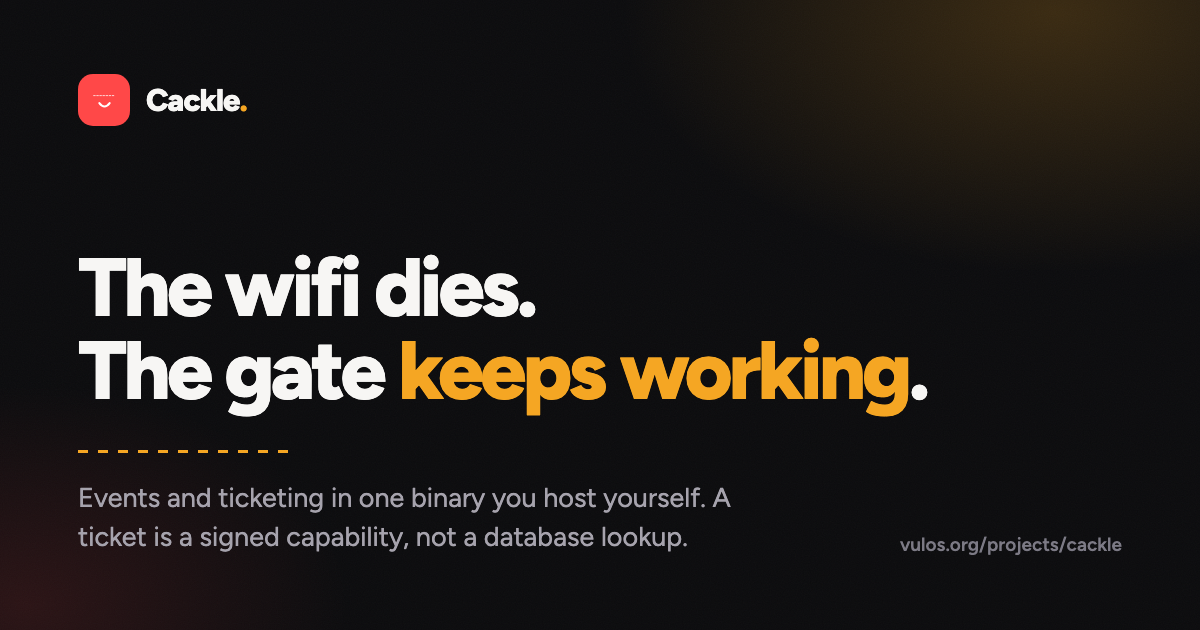
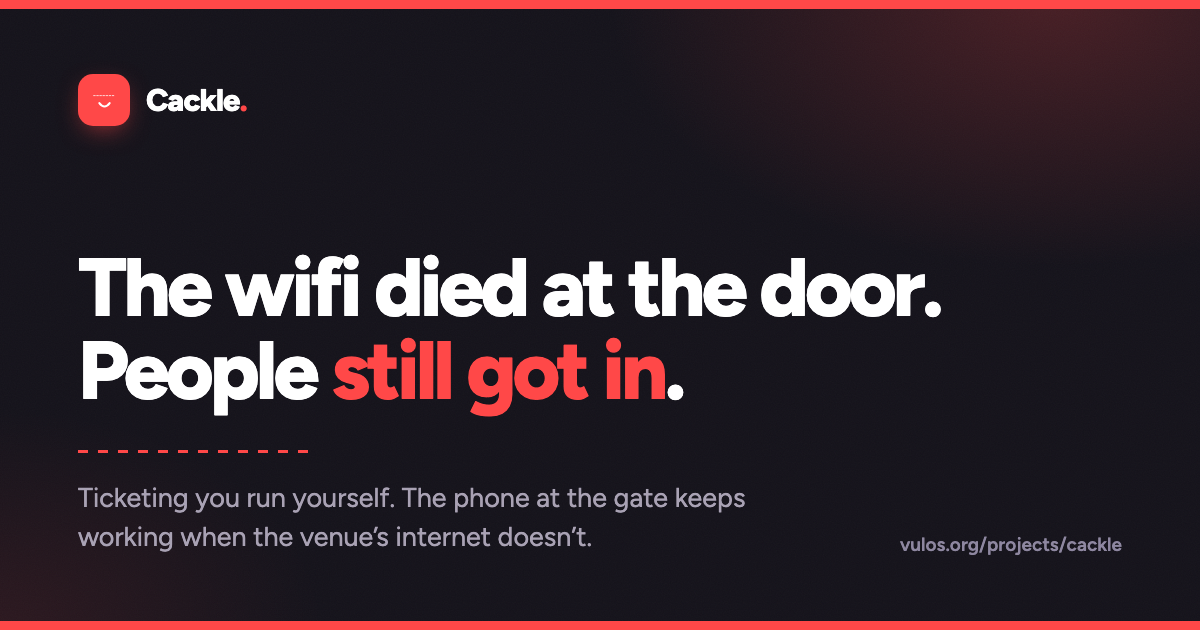
site: put the docs chrome and the og-card on the approved palette, and retire the old accent
The landing was rebuilt on RED + white/bone + INK; docs.html read the same
localStorage key but a different stylesheet, so following "Docs" out of the new
landing landed on the old colours. site/assets/style.css now carries the same
tokens name for name, including the light theme, and the tear-line motif gets a
red variant under the header rule.

scripts/make-og-card.mjs hardcoded the retired accent in four places. It now
declares its palette ONCE and reads RED out of brand/logo.svg's own tile fill
rather than repeating it as a literal — the same rule the mark's line and path
already followed, and for the same reason: a colour re-declared in a generator
is a colour that eventually disagrees with the mark it is drawing. The card was
regenerated and now carries the new headline and two torn red edges, so the
share preview is a stub too.

Retiring the accent is a safety fix rather than a taste one: it was the same
warm yellow the scanner uses for its WARN verdict. With it gone from the brand,
something yellow on a gate screen means exactly one thing.

  grep -ri "amber\|F5A623" site/   →  no hits (exit 1)

Verified the copies of the approved mark are byte-identical rather than
lookalikes:

  MD5 (brand/logo.svg)             = 504a1312fdd17cdc97b7a2b5124e25ad
  MD5 (site/assets/cackle-logo.svg)= 504a1312fdd17cdc97b7a2b5124e25ad
  MD5 (site/assets/favicon.svg)    = 504a1312fdd17cdc97b7a2b5124e25ad

npm run site:check: 40 checks passed.
[…]

diff --git a/site/assets/style.css b/site/assets/style.css
@@ -1,4 +1,4 @@
-/* ═══════════════════════════════════════════════════════════════════════════
+/* ════════════════════════════════════════════════════════════════════════════
    Cackle docs — the chrome for site/docs.html.
 
    This file used to dress BOTH pages. The landing is now self-contained (its
@@ -9,17 +9,21 @@
    markdown body.
 
    The tokens below are the LANDING's tokens, name for name and value for
-   value, including its light theme. That is the point of the rewrite: a
-   reader who sets the light theme on the landing and clicks "Docs" used to
-   land on a permanently-dark page in a different palette. Both pages now read
-   `cackle-site-theme` from localStorage before first paint and resolve to the
-   same surface.
+   value, including its light theme. That is the point: a reader who sets the
+   light theme on the landing and clicks "Docs" used to land on a permanently
+   dark page in a different palette. Both pages read `cackle-site-theme` from
+   localStorage before first paint and resolve to the same surface.
 
-   Measured, not guessed: #F5A623 on white is 1.99:1, so amber-coloured TEXT
-   (links, the active rail item) resolves to --amber-ink — a darkened amber in
-   light, a lifted one in dark — and the amber itself is only ever a fill or an
-   edge. See the note in site/index.html.
-   ═══════════════════════════════════════════════════════════════════════════ */
+   COLOUR — three, per brand/logo.svg and the canonical spec: RED #FF4848,
+   WHITE #FFFFFF, INK #14121A, with BONE #F7F3EE as the light-theme sunken
+   surface so white cards lift off it.
+
+   MEASURED, not guessed: #FF4848 on white is 3.02:1 — a superb FILL and an
+   unusable INK for text on a light ground. So red-coloured TEXT (links, the
+   active rail item) resolves to --red-ink: #C42323 (5.9:1) in light, and
+   #FF4848 itself in dark, where it measures 5.5:1 against the ink ground. The
+   red is otherwise only ever a fill, an edge, or the wordmark's dot.
+   ════════════════════════════════════════════════════════════════════════════ */
 
 @font-face{
   font-family:'Figtree';
@@ -33,12 +37,13 @@
 *,*::before,*::after{box-sizing:border-box}
 
 :root{
-  --bg:#0B0B0D; --bg-2:#111114; --panel:#16161A; --panel-2:#1C1C21; --sunken:#141417;
-  --line:#26262B; --line-2:#35353D;
-  --t1:#F7F6F4; --t2:#A6A3AD; --t3:#7C7A85;
-  --amber:#F5A623; --amber-ink:#F8BC55; --amber-fg:#1A1105;
-  --amber-wash:rgba(245,166,35,.11); --amber-edge:rgba(245,166,35,.30);
-  --red:#FF4848;
+  /* Dark theme = INK ground. */
+  --bg:#14121A; --bg-2:#1A1722; --panel:#1D1A25; --panel-2:#252131; --sunken:#100E15;
+  --line:#2A2633; --line-2:#3A3547;
+  --t1:#FFFFFF; --t2:#A9A2B4; --t3:#8E87A0;
+  --red:#FF4848; --red-ink:#FF4848;
+  --red-wash:rgba(255,72,72,.13); --red-edge:rgba(255,72,72,.34);
+  --red-glow:rgba(255,72,72,.55);
   --err:#FF7B7B; --err-wash:rgba(255,72,72,.09); --err-edge:rgba(255,72,72,.28);
   --r:14px; --r-sm:9px; --max:1200px;
   --quick:130ms; --ease:cubic-bezier(.2,0,.2,1);
@@ -47,11 +52,13 @@
   color-scheme:dark;
 }
 :root[data-theme=light]{
-  --bg:#FBFAF8; --bg-2:#FFFFFF; --panel:#FFFFFF; --panel-2:#F6F4F1; --sunken:#F2F0EC;
-  --line:#E6E2DC; --line-2:#D6D1C9;
-  --t1:#17161A; --t2:#57545C; --t3:#6E6B74;
-  --amber-ink:hsl(30 92% 32%);
-  --amber-wash:rgba(245,166,35,.16); --amber-edge:rgba(180,110,10,.42);
+  /* Light theme = WHITE ground, BONE for anything sunken. */
+  --bg:#FFFFFF; --bg-2:#F7F3EE; --panel:#FFFFFF; --panel-2:#F7F3EE; --sunken:#F2ECE4;
+  --line:#E5DED5; --line-2:#D6CCC0;
+  --t1:#14121A; --t2:#57515E; --t3:#6B6470;
+  --red-ink:#C42323;              /* 5.9:1 on white — red as TEXT resolves here */
+  --red-wash:#FFF0F0; --red-edge:rgba(196,35,35,.30);
+  --red-glow:rgba(255,72,72,.42);
   --err:#C81E1E; --err-wash:rgba(200,30,30,.07); --err-edge:rgba(200,30,30,.28);
   color-scheme:light;
 }
@@ -64,7 +71,7 @@ body{
 a{color:inherit;text-decoration:none}
 img{max-width:100%;display:block}
 button{font:inherit;color:inherit;background:none;border:0;cursor:pointer}
-:where(a,button,summary,[tabindex]):focus-visible{outline:2px solid var(--amber-ink);outline-offset:2px;border-radius:7px}
+:where(a,button,summary,[tabindex]):focus-visible{outline:2px solid var(--red);outline-offset:2px;border-radius:7px}
 @media (prefers-reduced-motion:reduce){
   html{scroll-behavior:auto}
   *,*::before,*::after{animation-duration:.001ms!important;transition-duration:.001ms!important}
@@ -75,16 +82,18 @@ button{font:inherit;color:inherit;background:none;border:0;cursor:pointer}
 
 .skip{
   position:absolute;left:14px;top:-70px;z-index:200;padding:11px 18px;border-radius:10px;
-  background:var(--amber);color:var(--amber-fg);font-weight:750;font-size:14px;
+  background:var(--red);color:#fff;font-weight:750;font-size:14px;
   transition:top var(--quick) var(--ease);
 }
 .skip:focus{top:14px}
 
-/* The page's one structural motif, shared with the landing. */
+/* The page's one structural motif, shared with the landing: a ticket's tear
+   line. Restyled in the new palette, not replaced. */
 .perf{
   height:2px;width:100%;border:0;margin:0;
   background-image:repeating-linear-gradient(90deg,var(--line-2) 0 7px,transparent 7px 14px);
 }
+.perf-red{background-image:repeating-linear-gradient(90deg,var(--red-edge) 0 7px,transparent 7px 14px)}
 
 /* ── Header ──────────────────────────────────────────────────────────────── */
 .site-header{
@@ -97,9 +106,10 @@ button{font:inherit;color:inherit;background:none;border:0;cursor:pointer}
 .brand{display:inline-flex;align-items:center;gap:11px;font-weight:800;letter-spacing:-.03em;font-size:19px;flex:none}
 .brand .tile{
   width:31px;height:31px;border-radius:9px;display:block;flex:none;
-  box-shadow:0 4px 14px -5px rgba(255,72,72,.7);
+  box-shadow:0 4px 14px -5px var(--red-glow);
 }
-.brand .dot{color:var(--amber)}
+/* Identity, not decoration: RED in BOTH themes, so it never follows the OS. */
+.brand .dot{color:var(--red)}
 .nav-links{display:flex;align-items:center;gap:3px;margin-left:auto}
 .nav-links a{
   padding:7px 11px;border-radius:8px;color:var(--t2);font-size:14px;font-weight:550;
@@ -138,15 +148,15 @@ button{font:inherit;color:inherit;background:none;border:0;cursor:pointer}
 }
 @media(max-width:860px){.docs-nav{position:static}}
 .docs-nav .label{
-  font-size:11px;text-transform:uppercase;letter-spacing:.09em;color:var(--t3);
-  padding:6px 10px;font-weight:750;
+  font-size:12px;text-transform:uppercase;letter-spacing:.09em;color:var(--t3);
+  padding:6px 10px;font-weight:800;
 }
 .docs-nav a{
   display:block;padding:8px 11px;border-radius:8px;color:var(--t2);font-size:14.5px;font-weight:550;
   transition:color var(--quick) var(--ease),background var(--quick) var(--ease);
 }
 .docs-nav a:hover{background:var(--panel-2);color:var(--t1)}
-.docs-nav a.active{background:var(--amber-wash);color:var(--amber-ink)}
+.docs-nav a.active{background:var(--red-wash);color:var(--red-ink)}
 .docs-main{min-width:0}
 .docs-title{font-size:12.5px;color:var(--t3);margin-bottom:8px;font-weight:600;letter-spacing:.02em}
 .docs-error{
@@ -164,7 +174,7 @@ button{font:inherit;color:inherit;background:none;border:0;cursor:pointer}
 .markdown h4{font-size:16.2px;margin:1.3em 0 .4em}
 .markdown p,.markdown li{color:var(--t2)}
 .markdown strong,.markdown b{color:var(--t1);font-weight:700}
-.markdown a{color:var(--amber-ink);font-weight:550}
+.markdown a{color:var(--red-ink);font-weight:600}
 .markdown a:hover{text-decoration:underline}
 .markdown code{
   font-family:var(--mono);font-size:.87em;background:var(--sunken);
@@ -183,8 +193,8 @@ button{font:inherit;color:inherit;background:none;border:0;cursor:pointer}
 }
 .markdown pre code{background:none;border:0;padding:0;font-size:13.4px;line-height:1.72;color:var(--t1);overflow-wrap:normal;word-break:normal}
 .markdown blockquote{
-  margin:1.2em 0;padding:.5em 1.1em;border-left:3px solid var(--amber);
-  background:var(--amber-wash);color:var(--t2);border-radius:0 var(--r-sm) var(--r-sm) 0;
+  margin:1.2em 0;padding:.5em 1.1em;border-left:3px solid var(--red);
+  background:var(--red-wash);color:var(--t2);border-radius:0 var(--r-sm) var(--r-sm) 0;
 }
 .markdown blockquote>*:first-child{margin-top:0}
 .markdown table{
@@ -194,7 +204,7 @@ button{font:inherit;color:inherit;background:none;border:0;cursor:pointer}
 .markdown th,.markdown td{border:1px solid var(--line);padding:9px 12px;text-align:left;color:var(--t2)}
 .markdown th{background:var(--panel-2);font-weight:700;color:var(--t1);white-space:nowrap}
 .markdown img{border-radius:10px;margin:1.2em 0;border:1px solid var(--line)}
-.markdown hr{border:none;border-top:1px dashed var(--line-2);margin:2.2em 0}
+.markdown hr{border:none;border-top:2px dashed var(--line-2);margin:2.2em 0}
 .markdown ul,.markdown ol{padding-left:1.35em}
 .markdown li+li{margin-top:.3em}
 .markdown .mermaid{

diff --git a/site/docs.html b/site/docs.html
@@ -20,7 +20,7 @@
   <meta property="og:image:height" content="630">
   <meta property="og:image:alt" content="Cackle docs — Cackle documentation — the ticket format, running a gate with no network, clustering, payments, configuration and self-hosting.">
   <meta name="twitter:image" content="https://vulos.org/projects/cackle/assets/og-card.png">
-<meta name="theme-color" content="#0B0B0D">
+<meta name="theme-color" content="#14121A">
 <meta name="color-scheme" content="dark light">
 <link rel="icon" href="./assets/favicon.svg" type="image/svg+xml">
 <link rel="stylesheet" href="./assets/style.css">
@@ -57,7 +57,7 @@ document.documentElement.setAttribute('data-theme',s==='light'||s==='dark'?s:(ma
       </button>
     </div>
   </div></header>
-<hr class="perf">
+<hr class="perf perf-red">
 <div class="wrap docs-shell">
   <aside class="docs-nav">
     <div class="label">Cackle docs</div>
@@ -184,7 +184,7 @@ document.getElementById('themeBtn').addEventListener('click', ()=>{
   root.setAttribute('data-theme', next);
   try { localStorage.setItem('cackle-site-theme', next); } catch(e){}
   const m = document.querySelector('meta[name=theme-color]');
-  if (m) m.setAttribute('content', next === 'light' ? '#FBFAF8' : '#0B0B0D');
+  if (m) m.setAttribute('content', next === 'light' ? '#FFFFFF' : '#14121A');
   initMermaid();
   load(current());
 });
